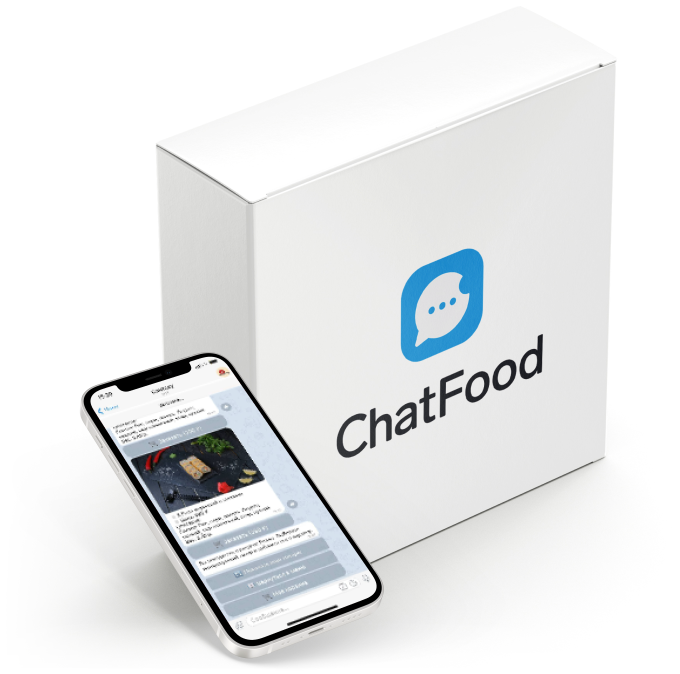
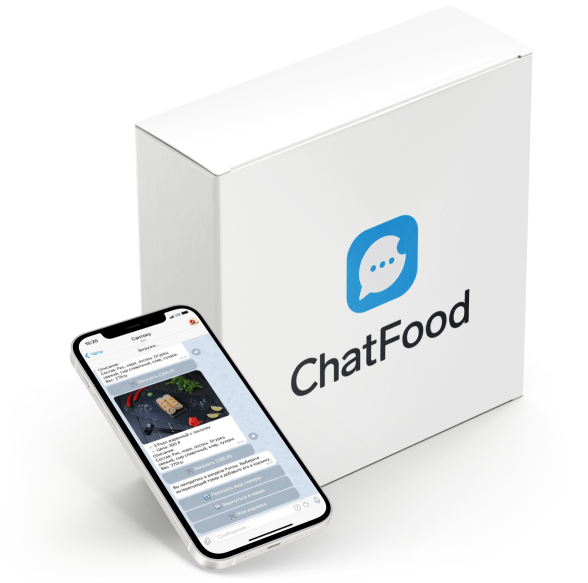
box

diff --git a/public/index.html b/public/index.html
@@ -231,7 +231,7 @@
 					</div>
 					<div class="row align-items-center">
 						<div class="col-lg-6"> 
-							<div class="sBox__imgWrap"> <img class="res-i" src="img/box.jpg" alt="" loading="lazy"/>
+							<div class="sBox__imgWrap"> <img class="res-i" src="img/box.png" alt="" loading="lazy"/>
 							</div>
 						</div>
 						<div class="col">
